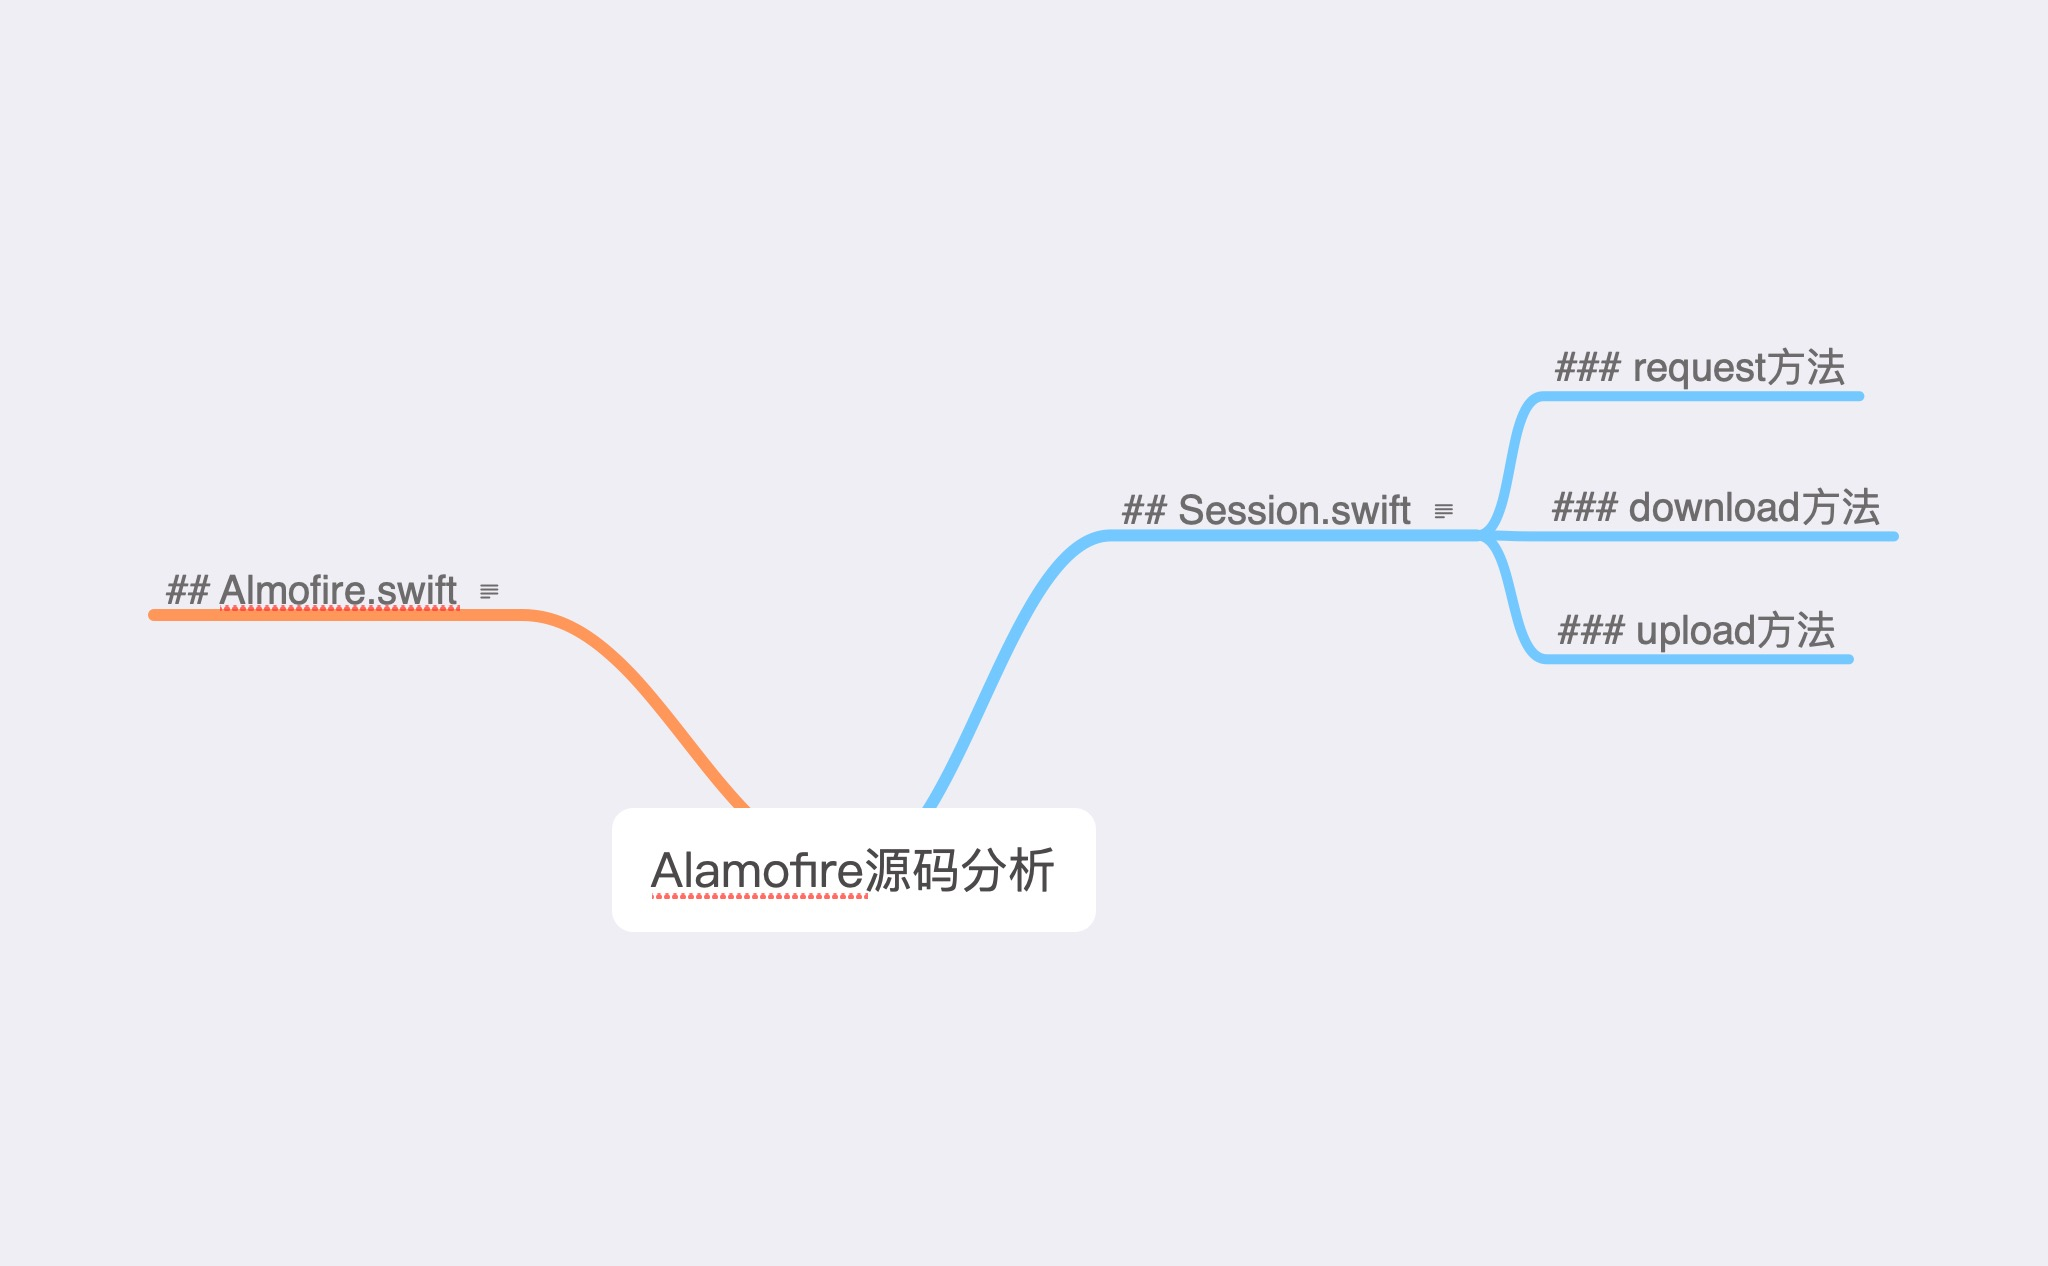
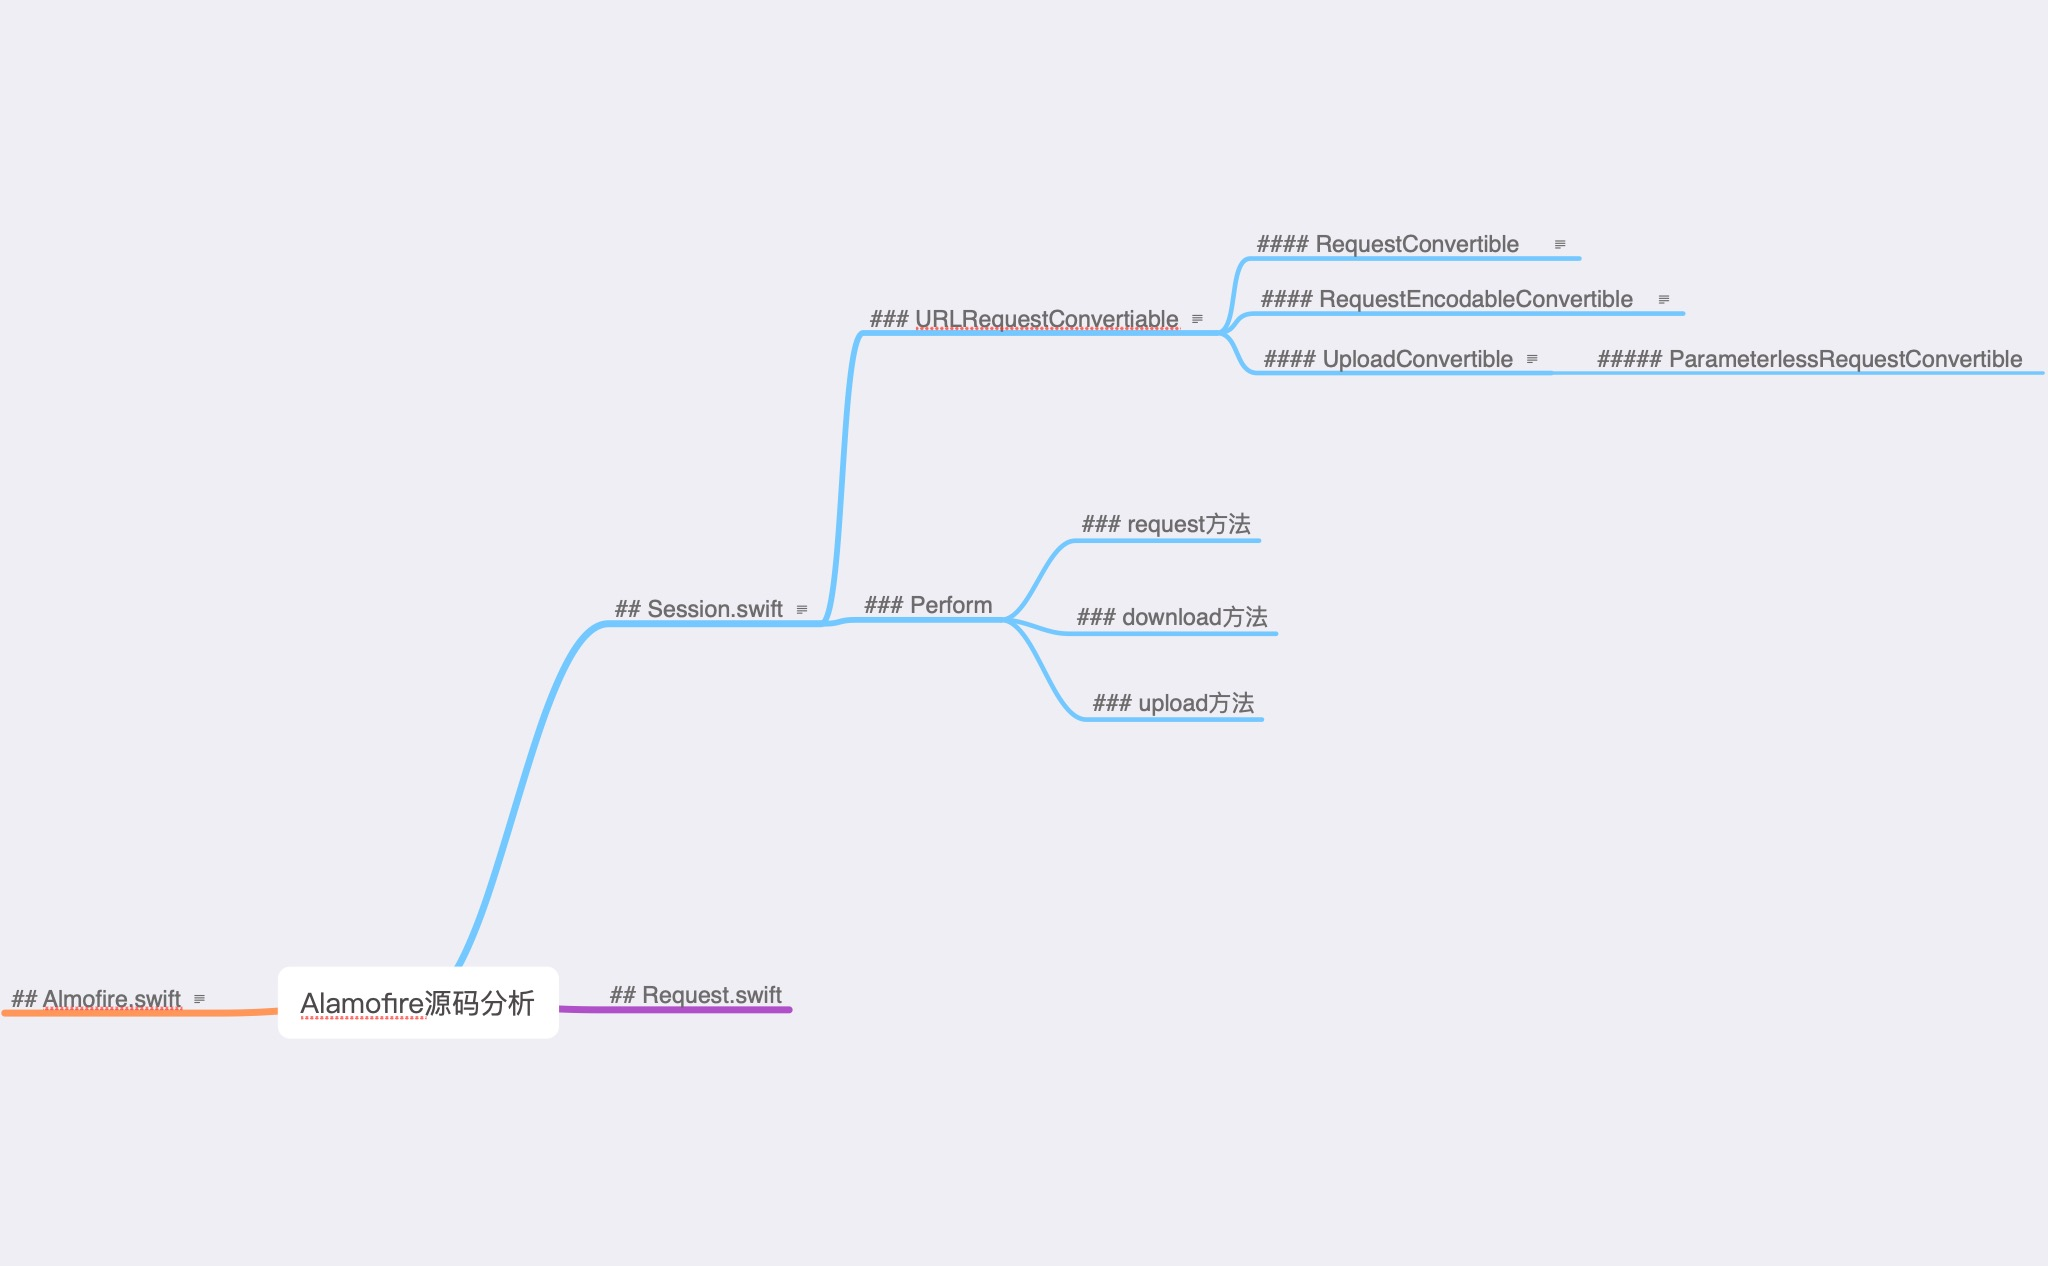
update Session

diff --git a/常用开源库源码学习/Alamofire源码分析/Alamofire源码分析.md b/常用开源库源码学习/Alamofire源码分析/Alamofire源码分析.md
@@ -1,47 +1,86 @@
 # Alamofire源码分析
 
 
-- ## Session.swift
-  `Session`负责创建和管理`Request`的类型。同时也提供了`Request`需要的所有功能，包括队列管理，中断请求，https证书管理，重定向，响应缓存处理。  
-    
-    
-  ###  `Session`类的属性  
-    
-  - `session`:用底层的`URLSession`来创建`URLSessionTasks`提供给当前实例使用，并且提供`delegate`响应`URLSessionDelegate`的回调  
-    
-  - `delegate`:`SessionDelegate`的实例，用于处理`URLSessionDelegate`中的方法和`Request`的交互  
-    
-  ----
-    
-  - `rootQueue`:主的`DispatchQueue`，用于所有内部的回调和状态更新，必须是个串行队列  
-    
-  - `requestQueue`:在这之上可以异步创建`URLRequest`。默认这个队列是使用`rootQueue`，但是如果请求性能遇上瓶颈的时候，可以将请求业务分离到这个队列上完成  
-    
-  - `serializationQueue`: 将所有`Request`请求的响应处理放到这个队列上处理。默认也是使用主队列处理，同样也是处理瓶颈的时候可以把业务放过来  
-    
-    
-  ----  
-    
-  - `interceptor`:默认`interceptor`为跟随`Session`的实例管理所有的`Request`的，但是也可以为`Request`单独指定`interceptor`  
-    
-  - `serverTrustManager`:用于https验证服务  
-    
-  - `redirectHandler`:用于提供`Request`作重定向  
-    
-  - `cachedResponseHandler`:提供自定的响应缓存机制  
-    
-  - `eventMonitor`:事件监听  
-    
-    
-  ----  
-    
-  - `requestTaskMap`:`Request`和`URLSessionTasks`之间的映射关系  
-    
-  - `activeRequests`:当前执行中的`Request`  
-    
-    
-  
+## ## Session.swift
 
-- ## Almofire.swift
-  这个文件里面没有使用`Almofire`去声明一个类，而是使用了全名命名空间去包含了所有`默认的``Session`的实例方法
+`Session`负责创建和管理`Request`的类型。同时也提供了`Request`需要的所有功能，包括队列管理，中断请求，https证书管理，重定向，响应缓存处理。  
+  
+  
+###  `Session`类的属性  
+  
+- `session`:用底层的`URLSession`来创建`URLSessionTasks`提供给当前实例使用，并且提供`delegate`响应`URLSessionDelegate`的回调  
+  
+- `delegate`:`SessionDelegate`的实例，用于处理`URLSessionDelegate`中的方法和`Request`的交互  
+  
+----  
+  
+- `rootQueue`:主的`DispatchQueue`，用于所有内部的回调和状态更新，必须是个串行队列  
+  
+- `requestQueue`:在这之上可以异步创建`URLRequest`。默认这个队列是使用`rootQueue`，但是如果请求性能遇上瓶颈的时候，可以将请求业务分离到这个队列上完成  
+  
+- `serializationQueue`: 将所有`Request`请求的响应处理放到这个队列上处理。默认也是使用主队列处理，同样也是处理瓶颈的时候可以把业务放过来  
+  
+----  
+  
+- `interceptor`:默认`interceptor`为跟随`Session`的实例管理所有的`Request`的，但是也可以为`Request`单独指定`interceptor`  
+  
+- `serverTrustManager`:用于https验证服务  
+  
+- `redirectHandler`:用于提供`Request`作重定向  
+  
+- `cachedResponseHandler`:提供自定的响应缓存机制  
+  
+- `eventMonitor`:事件监听  
+  
+----  
+  
+- `requestTaskMap`:`Request`和`URLSessionTasks`之间的映射关系  
+  
+- `activeRequests`:当前执行中的`Request`  
+  
+  
+### `request`,`download`,`upload`方法的设计  
+  
+- `Session`里面整合了`URLRequest`的各种方法，如`Request`,`Download`,`Upload`，而`Session`需要使用这几个方法， 就需要整合不同的原材料，因此在`Request`类中，分别又子类化了`DataRequest`,`DownloadRequest`,`UploadRequest`用于处理不同的请求。  
+- 根据不同的`Request`原材料,`Session`中先是使用了不同的子结构（继承于`URLRequestConvertible`，可用于转成`URLRequest`去请求），将原材料聚合起来，然后转成中间成品`URLRequest`  
+- 根据不同的中间成品`URLRequest`，才生成对应的`Request`子类
+
+### ### URLRequestConvertiable
+
+提供由不同工厂`Request`,`Download`,`Upload  
+`零散的原料整合成统一`URLRequest`的方法
+
+- #### RequestConvertible
+  **Request**和**Download**使用  
+    
+  将`URLRequest`需要的以下原料先整合起来，然后提供`URLRequestConvertible`的协议供转成`URLRequest`的对象去使用  
+  - `url:URLConvertible` 扩展了`String`，可以转成`URL`  
+  - `method` 定义了`HTTP`的所有请求方法的结构体  
+  - `parameters`  另外定义的字典类型，用于作为请求的参数  
+  - `encoding` 声明对参数加密的方法  
+  - `headers`  `HTTP`请求的头
+
+- #### RequestEncodableConvertible 
+  参数需要`Encoding`的`Request`,`Download`使用
+
+- #### UploadConvertible
+  **Upload**使用  
+  - 提供使用`URL`上传文件,就是直接使用`ParameterlessRequestConvertible`构建原材料  
+  - 如果使用`Data`或者`Stream`的话，就需要构建`UploadConvertible`去构造原材料
+
+	- ##### ParameterlessRequestConvertible
+
+### ### Perform
+
+- ### request方法
+
+- ### download方法
+
+- ### upload方法
+
+## ## Request.swift
+
+## ## Almofire.swift
+
+这个文件里面没有使用`Almofire`去声明一个类，而是使用了全名命名空间去包含了所有`默认的``Session`的实例方法
 
